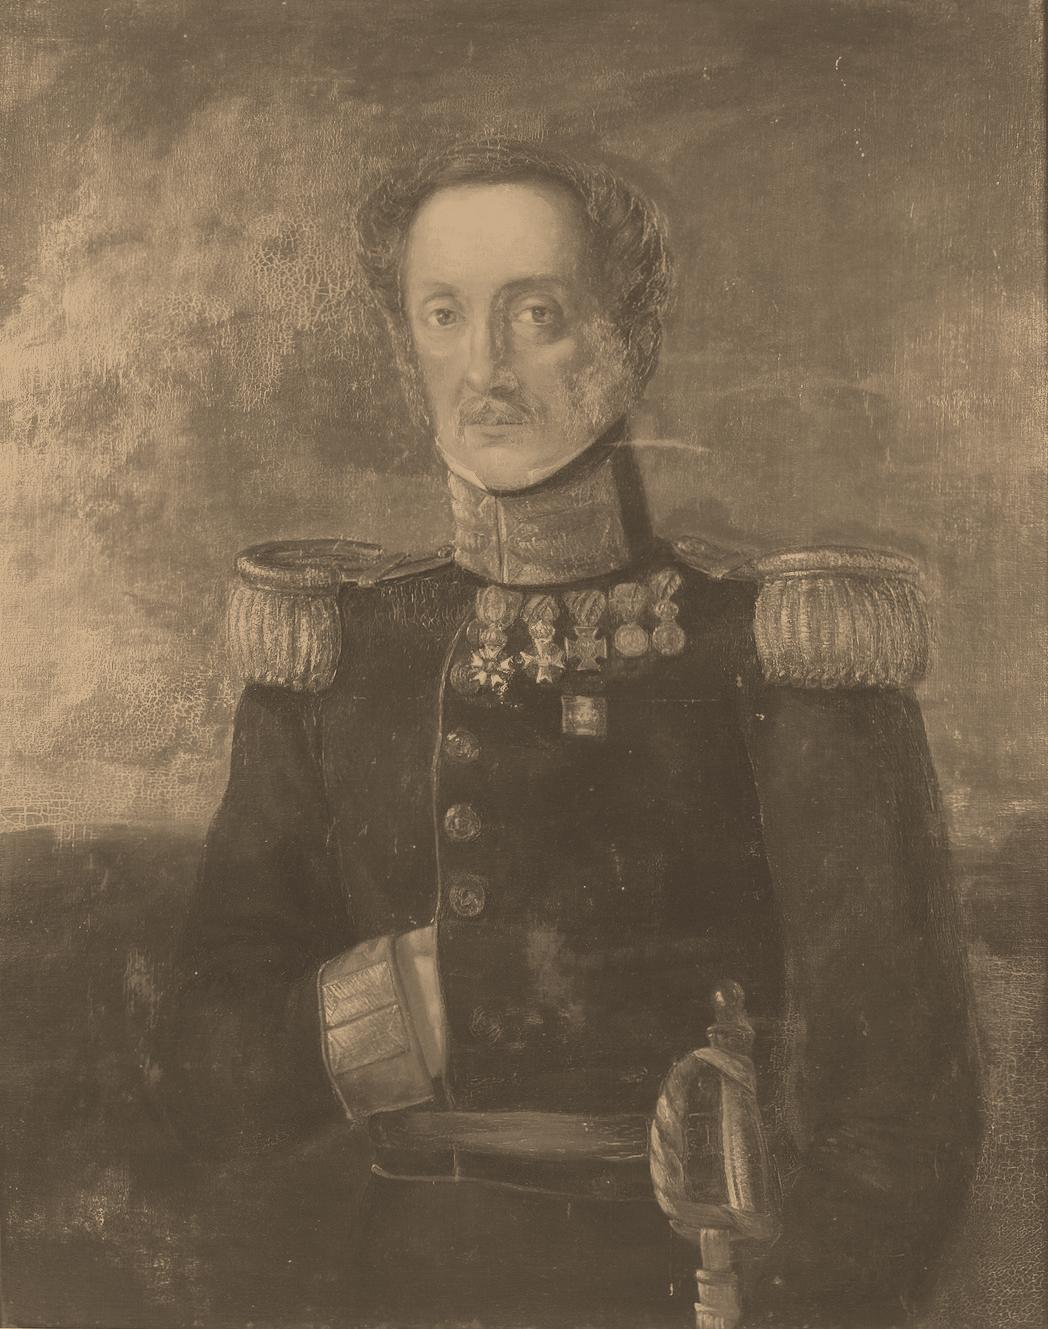
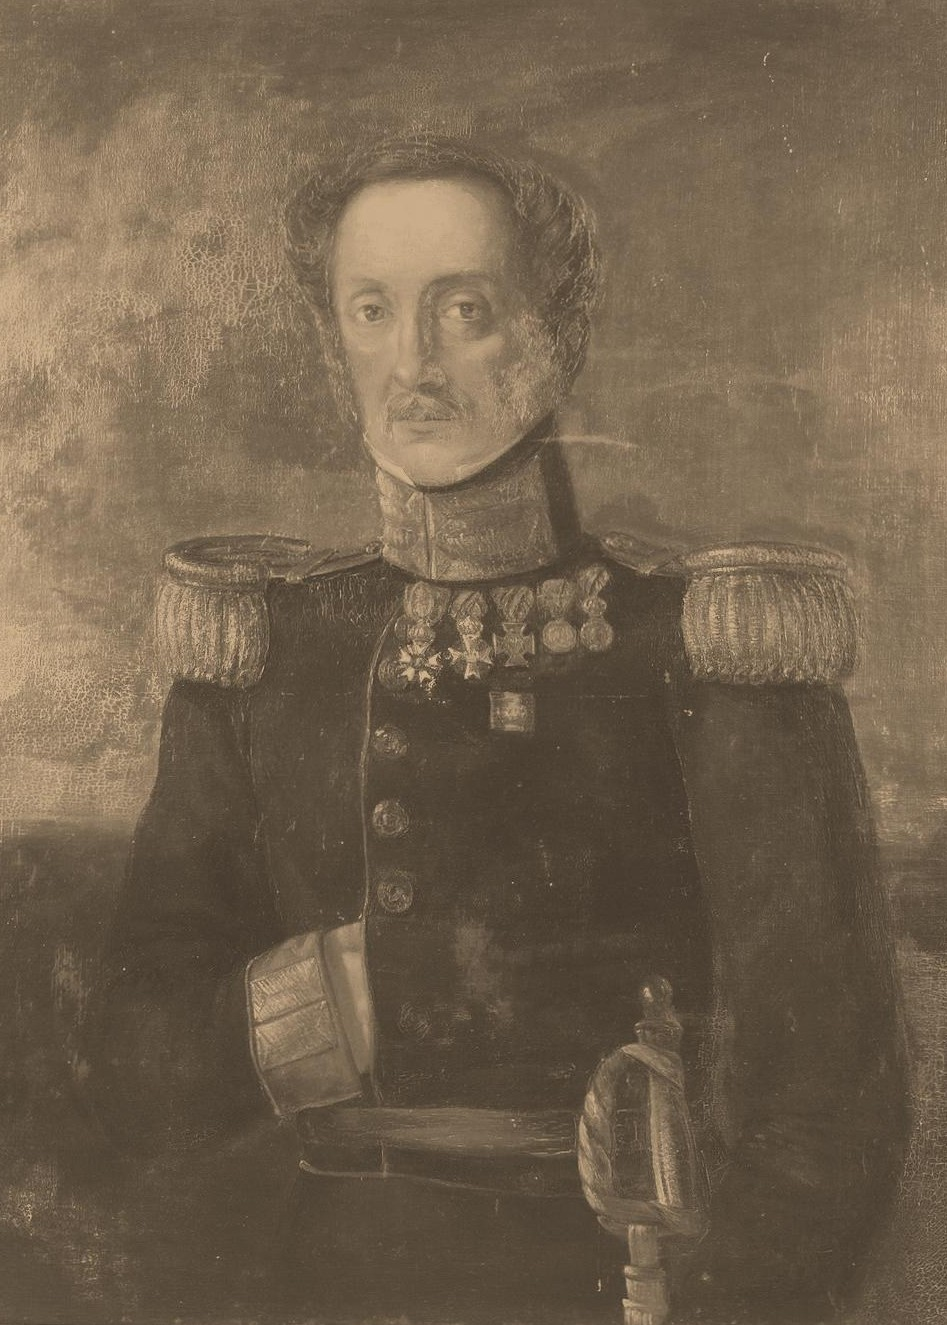
fix: new portraits with unified size

diff --git a/src/routes/timeline/[topic]/[year]/+page.svelte b/src/routes/timeline/[topic]/[year]/+page.svelte
@@ -95,11 +95,11 @@
 				</div>
 			</a>
 			<img
-				class="absolute top-[80%] left-[2%] max-h-[50%] max-w-[60%] opacity-100"
+				class="absolute top-[83%] left-[2%] aspect-auto w-[40%] opacity-100"
 				src={portrait}
 				alt="portrait"
 			/>
-			<div class="absolute top-[100%] left-[38%] flex grow-0 flex-col items-start justify-start">
+			<div class="absolute top-[100%] left-[45%] flex grow-0 flex-col items-start justify-start">
 				<div>
 					<span class="text-5xl font-bold">{data.mainContent?.year}</span>
 					<br />
